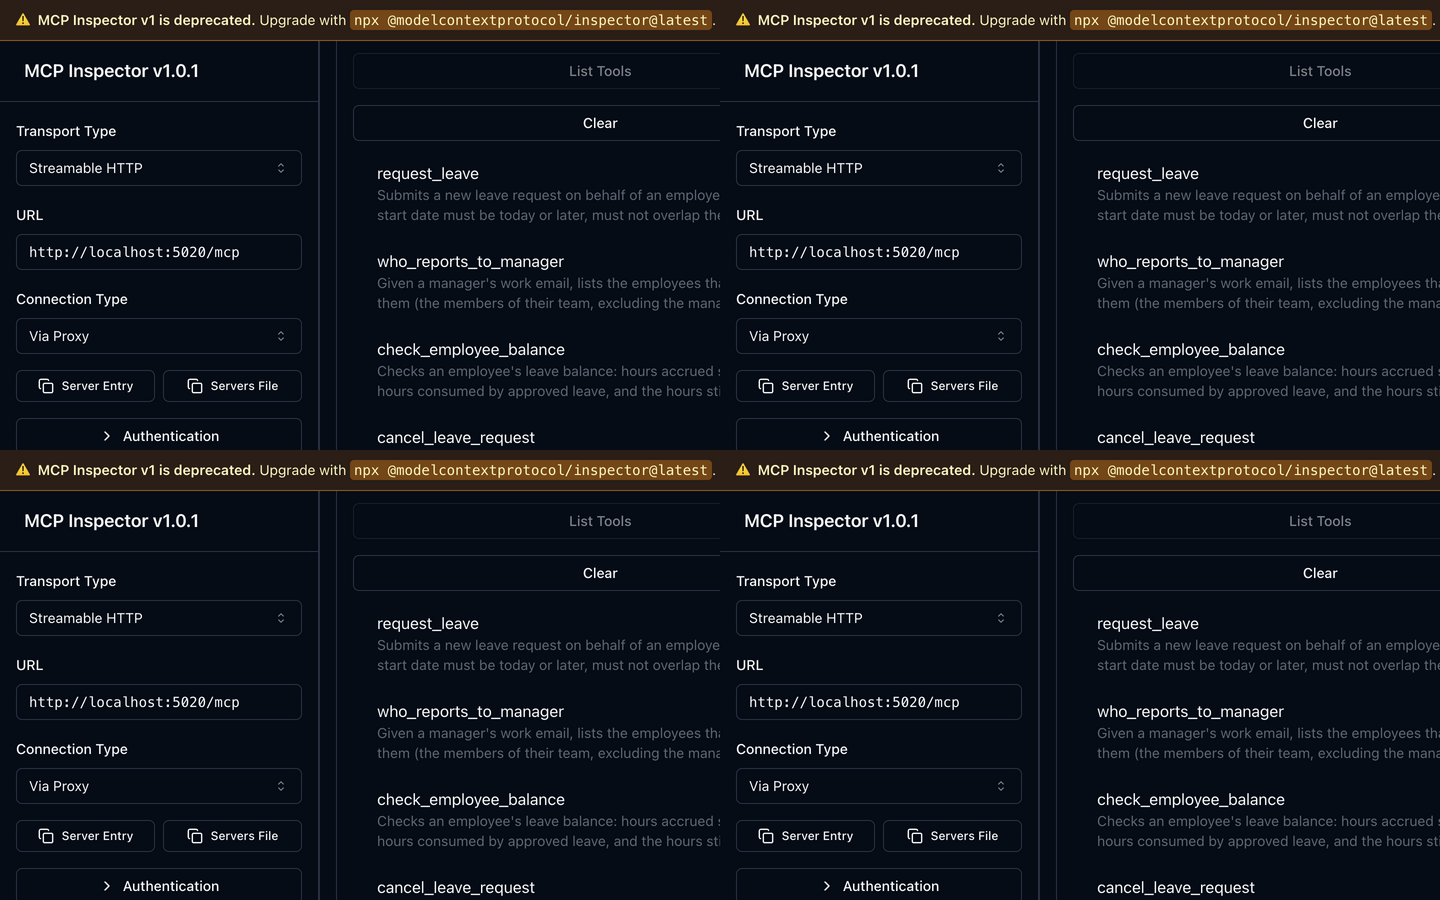
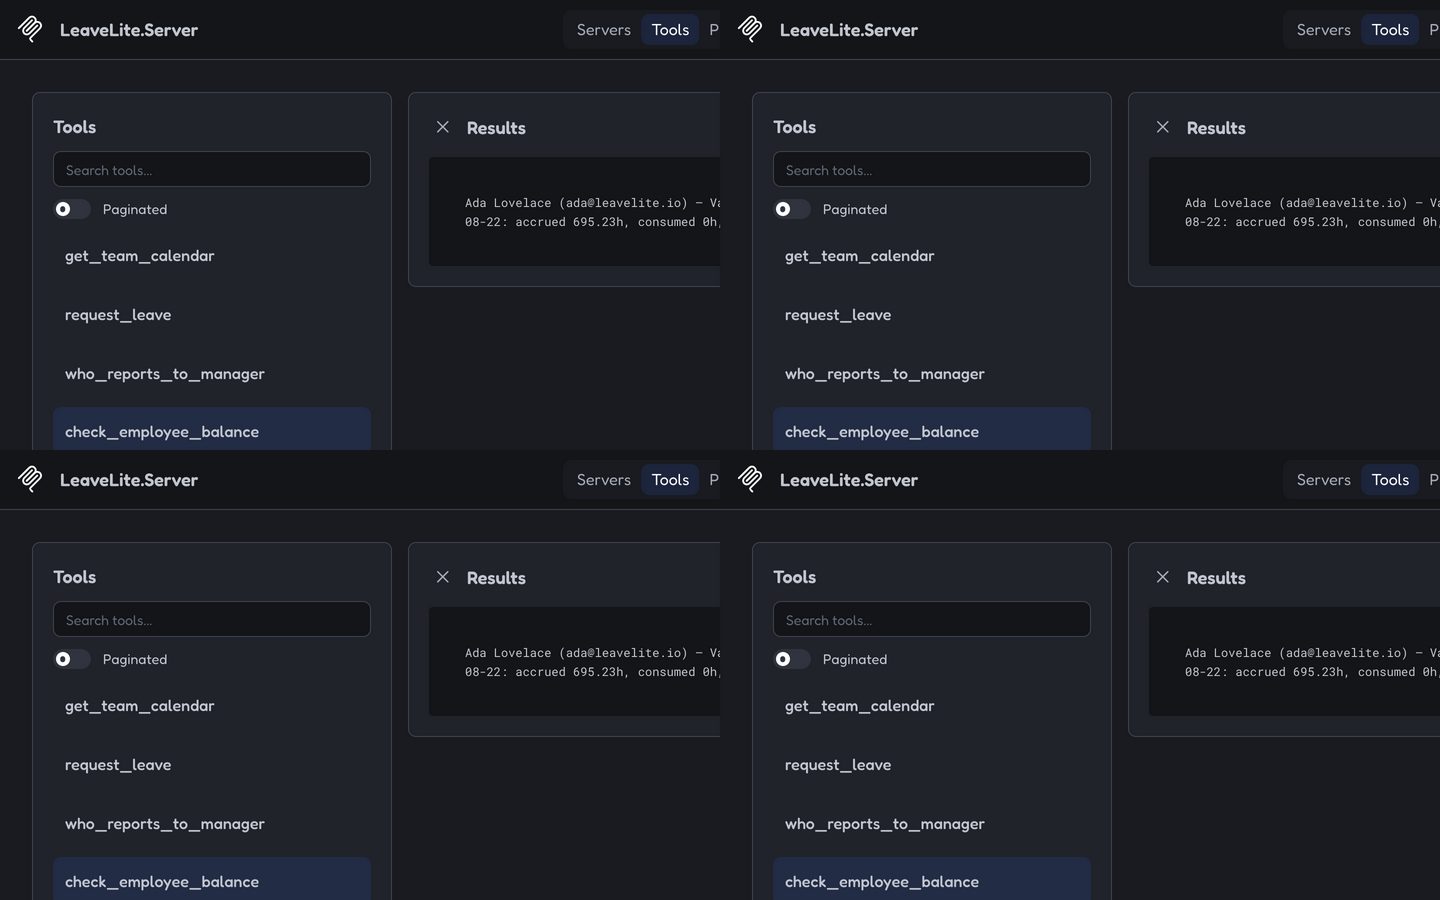
docs: recapture Inspector screenshots on the current v2.3.0 UI
The previous captures showed the deprecated v1 banner. Reconnect the
latest Inspector (v2.3.0, protocol 2025-11-25) to the running server
and recapture the tool catalog and the live check_employee_balance
execution; update the README instructions to @latest and its
add-a-server flow.

diff --git a/README.md b/README.md
@@ -81,11 +81,13 @@ sample requests dated relative to *run time* so the demo never goes stale.
 Then ask: *"Check Ada's vacation balance and forecast it three months out"* or
 *"Show Bruno's pending request and approve it if the team calendar holds up."*
 
-**MCP Inspector** (Anthropic's interactive tooling):
+**MCP Inspector** (Anthropic's interactive tooling) - the screenshots above were captured with it:
 
 ```bash
-npx @modelcontextprotocol/inspector dotnet run --project src/LeaveLite.Server
+npx @modelcontextprotocol/inspector@latest
 ```
+
+Then add a server with URL `http://localhost:5020/mcp` (Streamable HTTP) and connect.
 
 **Raw protocol** - stateless Streamable HTTP; this is a real response from the running server:
 
